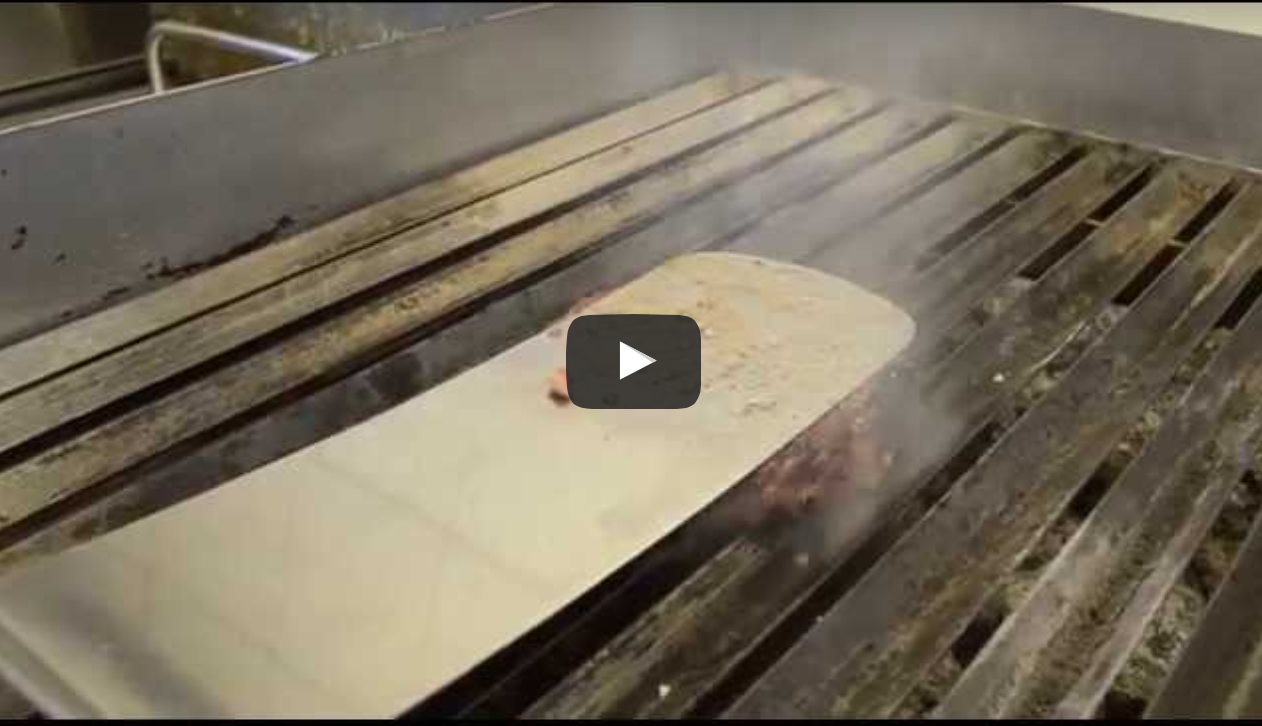
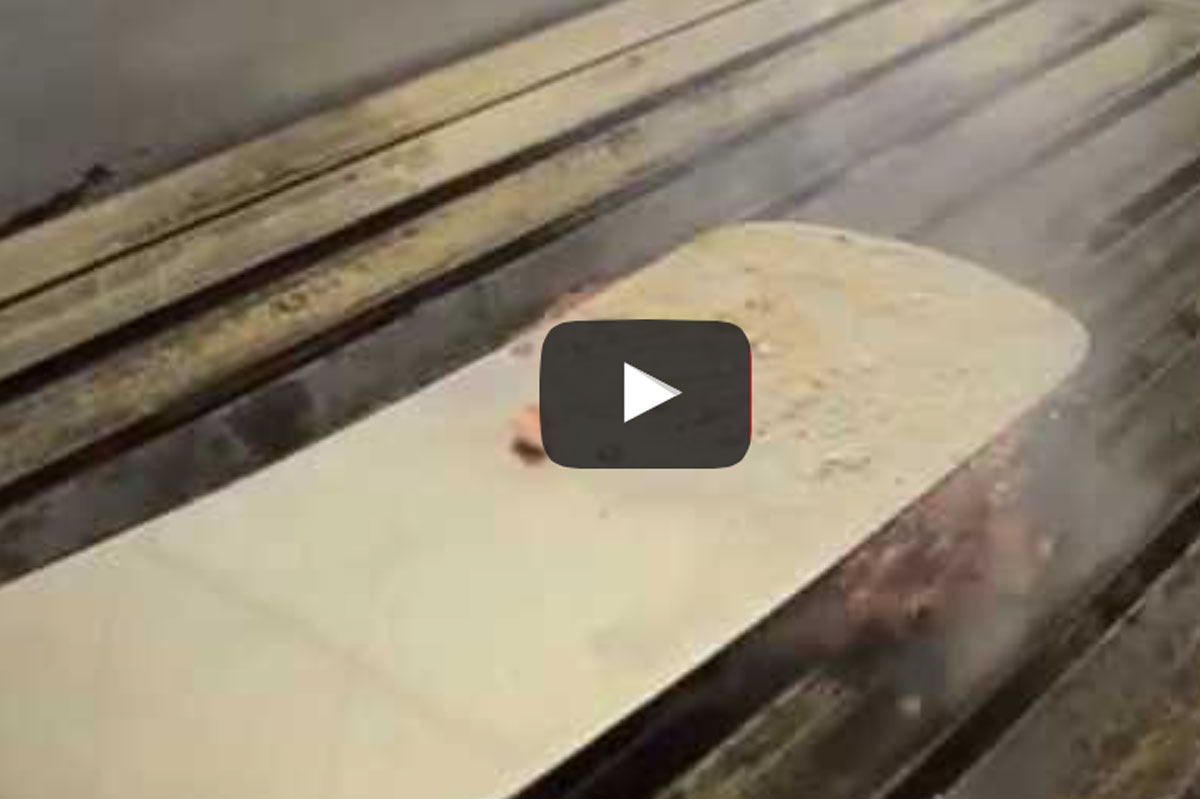
update

diff --git a/index.html b/index.html
@@ -134,7 +134,7 @@
         </div>
         <div class="row">
             <div class="medium-6 medium-push-6 large-6 large-push-6 columns">
-                <a role="button" href="http://beerstrot.it/chi-siamo/"><img src="http://beerstrot.it/asset/img/medium/bancone-e-sedie-dettaglio.jpg" alt="Bancone Ca' Vecchia Beerstrot" class="extra-space-image-tab-home"></a>
+                <a role="button" href="<iframe width="560" height="315" src="https://www.youtube.com/embed/2_gbVco836c" frameborder="0" allowfullscreen></iframe>"><img src="http://beerstrot.it/asset/img/medium/video.jpg" alt="Video Ca' Vecchia Beerstrot" class="extra-space-image-tab-home"></a>
             </div>
             <div class="medium-6 medium-pull-6 large-6 large-pull-6 columns">
                 <p>Amiamo la birra artigianale e il buon cibo.</p>
